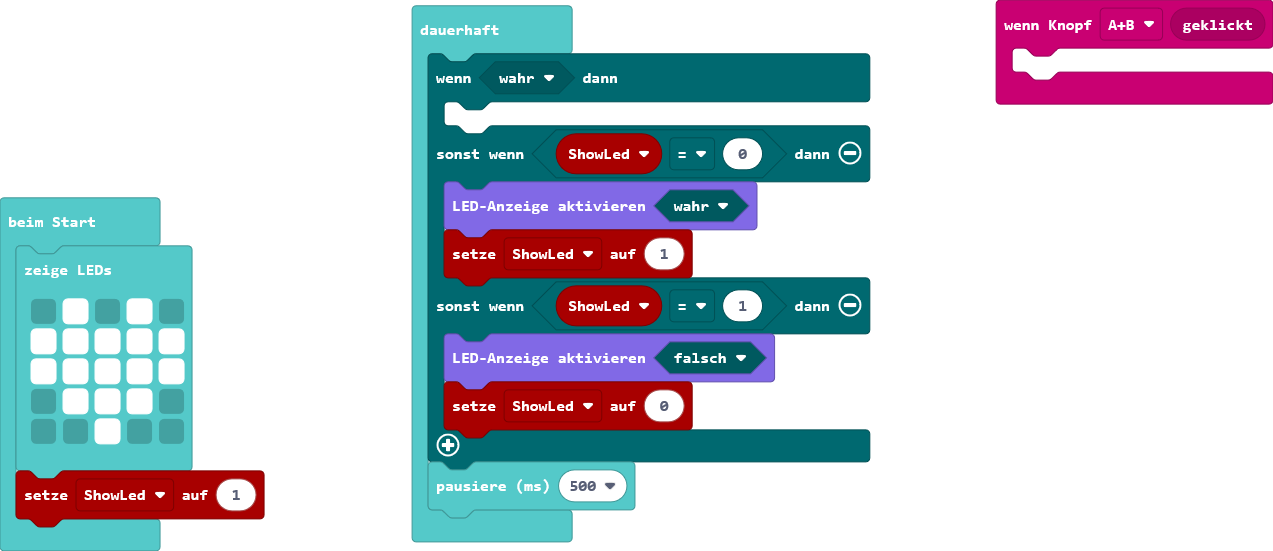
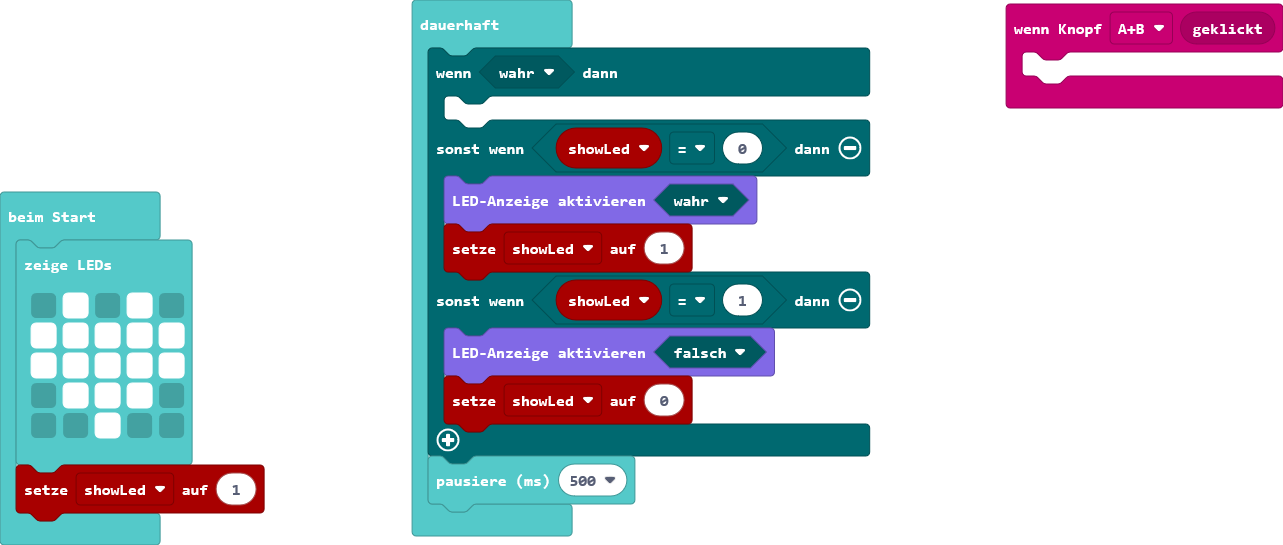
Aktualisiere main.blocks, main.ts

diff --git a/main.ts b/main.ts
@@ -8,16 +8,16 @@ basic.showLeds(`
     . # # # .
     . . # . .
     `)
-let ShowLed = 1
+let showLed = 1
 basic.forever(function () {
     if (true) {
     	
-    } else if (ShowLed == 0) {
+    } else if (showLed == 0) {
         led.enable(true)
-        ShowLed = 1
-    } else if (ShowLed == 1) {
+        showLed = 1
+    } else if (showLed == 1) {
         led.enable(false)
-        ShowLed = 0
+        showLed = 0
     }
     basic.pause(500)
 })
